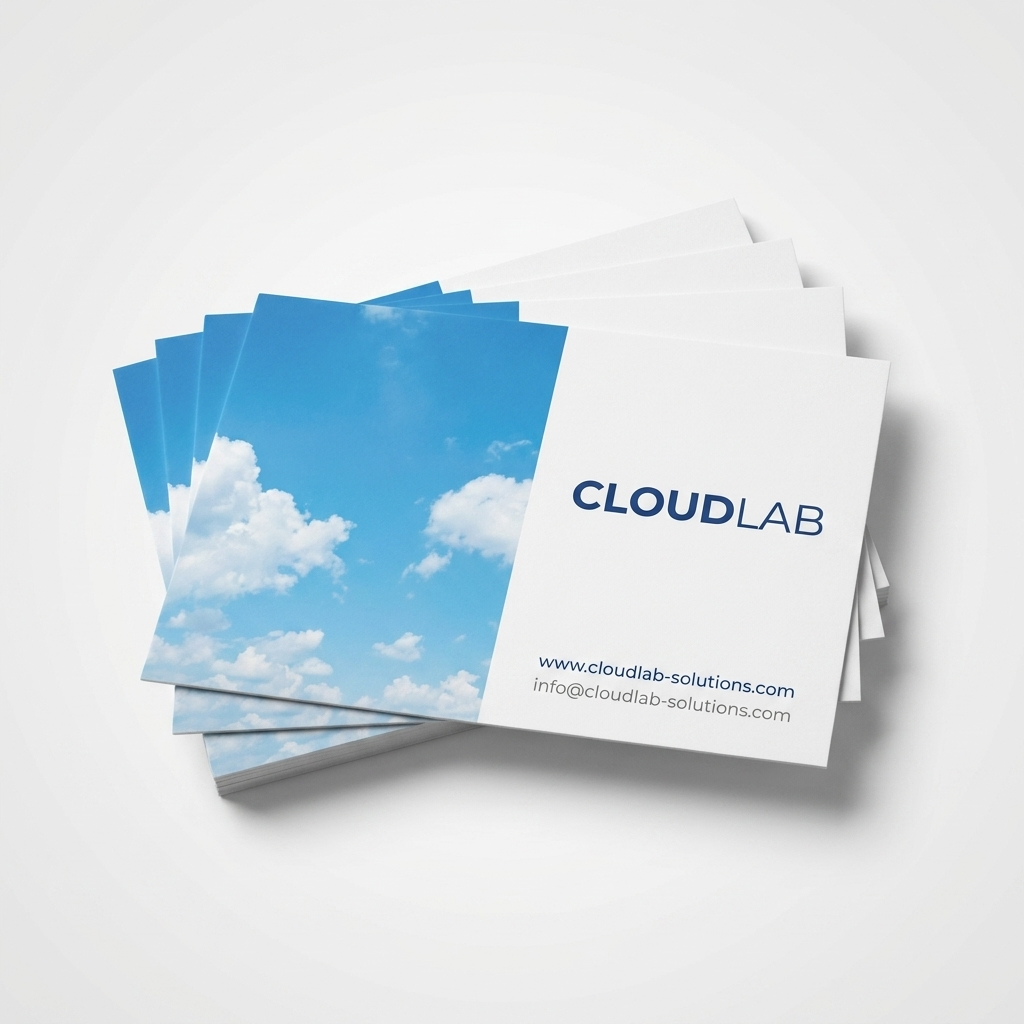
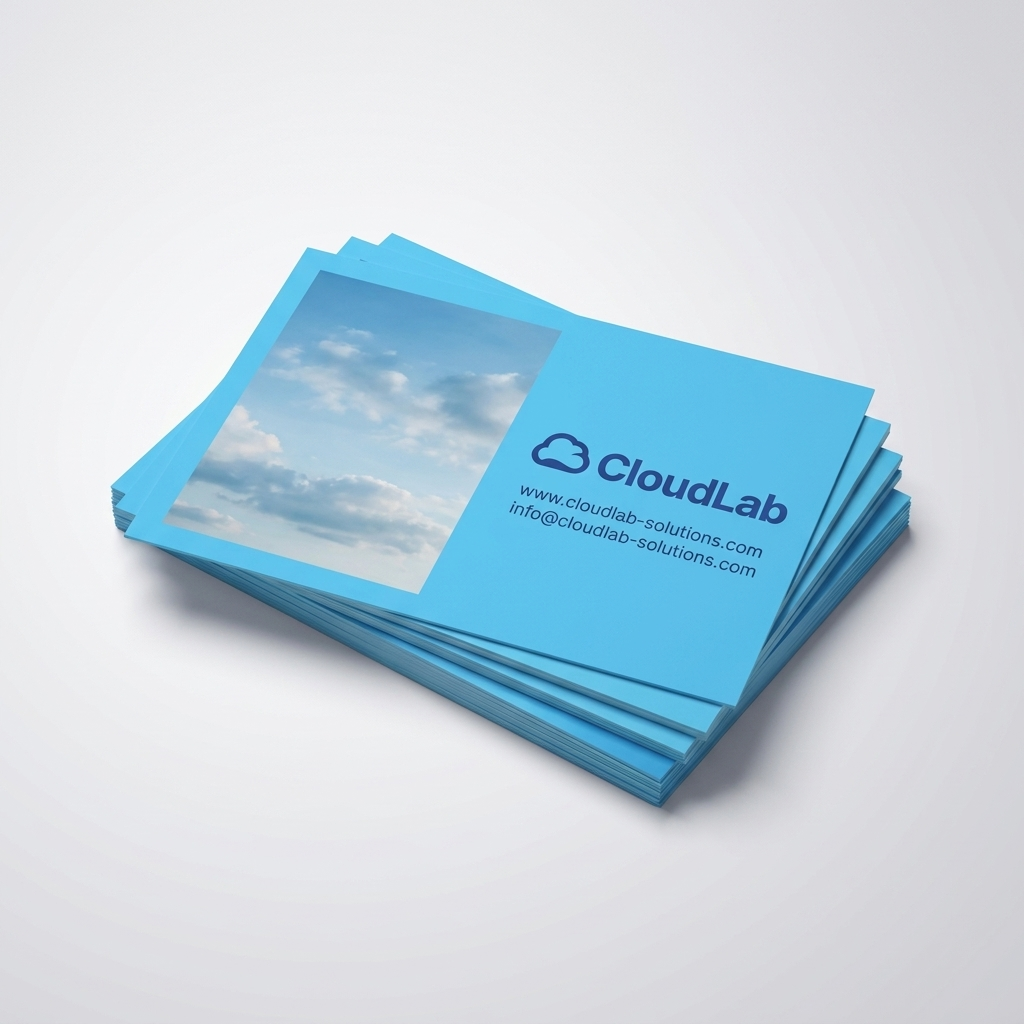
Fix designer 'Confirm' redirect, attach ?design= on add-to-cart, regenerate brand photos
Designer flow:
- After 'Confirm & add to cart' in the proof modal, redirect to the
  storefront product page (with ?design=<id>) instead of '/' on the
  designer's own host. The previous redirect re-opened the designer
  with no state, which looked like the editor restarting blank.
- Designer now accepts ?product= as either a UUID or a slug; it
  resolves the missing side from the public catalogue API so it
  always knows where to send the user back.

Storefront configurator:
- Reads ?design= from the URL and includes design_id in the cart-add
  request, so the production job has the user's artwork attached.
- Shows a green 'Design attached #abcd1234' banner above the option
  pickers with a quick 'Edit design' link back to the designer.

Brand photos:
- Tightened the per-product image prompt: 'USE THE EXACT LOGO from
  the supplied reference image. MAKE NO CHANGES TO IT. No cloud
  icons, no symbols, no extra glyphs, no different fonts or weights,
  no recoloring. Pixel-paste it like a sticker.'
- Hero banner regenerated with the same logo reference so the
  branded business cards / brochure / poster tube on the desk all
  carry the CloudLab mark.
- All 14 product photos regenerated under the new prompt.
- Removed the CSS overlay logo from product cards on home, grid and
  detail pages — the logo now lives in the photo itself.

Designer typography:
- Reconfirmed Inter is loading via Google Fonts <link> tags and
[…]

diff --git a/designer/src/main.ts b/designer/src/main.ts
@@ -10,9 +10,17 @@ import { renderPanel, renderProperties, type PanelKind } from './panels';
 
 const params = new URLSearchParams(window.location.search);
 const designIdFromUrl = params.get('design');
-const productId = params.get('product') ?? '';
+// `?product=` accepts either a UUID (legacy) or a slug like "flyer". We
+// resolve to both forms so save can use the UUID and the redirect can use
+// the slug.
+const productFromUrl = params.get('product') ?? '';
 const apiBase = (import.meta as any).env?.VITE_API_URL ?? 'http://localhost:8000/api/v1';
+const storefrontUrl = (import.meta as any).env?.VITE_STOREFRONT_URL ?? 'http://localhost:4321';
 const client = new DesignerClient(apiBase);
+
+const UUID_RE = /^[0-9a-f]{8}-[0-9a-f]{4}-[0-9a-f]{4}-[0-9a-f]{4}-[0-9a-f]{12}$/i;
+let productId = UUID_RE.test(productFromUrl) ? productFromUrl : '';
+let productSlug = UUID_RE.test(productFromUrl) ? '' : productFromUrl;
 
 const toastEl = document.getElementById('toast') as HTMLElement;
 function toast(msg: string, kind: 'info' | 'success' | 'error' = 'info') {
@@ -152,29 +160,44 @@ function scheduleAutosave() {
   autosaveTimer = window.setTimeout(persistOnce, 1200);
 }
 
-// Product id resolution. Always async — saves wait for it.
-let cachedFallbackProductId: string | null = null;
+// Product resolution. Always async — saves wait for it.
+// Sources, in priority order:
+//   1. ?product=<uuid>  → already have id, fetch slug for the redirect
+//   2. ?product=<slug>  → fetch the product, derive id
+//   3. (nothing)        → take the first published product
 let resolvingProduct: Promise<string> | null = null;
 
 async function ensureProductId(): Promise<string> {
-  if (productId) return productId;
-  if (cachedFallbackProductId) return cachedFallbackProductId;
+  if (productId && productSlug) return productId;
   if (resolvingProduct) return resolvingProduct;
 
   resolvingProduct = (async () => {
-    const res = await fetch(`${apiBase}/products?per_page=1`);
-    const json = await res.json();
-    const list = json?.data?.data ?? [];
-    if (!list[0]?.id) throw new Error('No published products available — seed the catalogue first.');
-    cachedFallbackProductId = list[0].id as string;
+    let p = null;
+    if (productSlug) {
+      const res = await fetch(`${apiBase}/products/${encodeURIComponent(productSlug)}`);
+      if (res.ok) p = await res.json();
+    } else if (productId) {
+      // Have UUID, find slug from the catalogue.
+      const res = await fetch(`${apiBase}/products?per_page=200`);
+      const list = (await res.json())?.data?.data ?? [];
+      p = list.find((x) => x.id === productId) ?? null;
+    } else {
+      const res = await fetch(`${apiBase}/products?per_page=1`);
+      const list = (await res.json())?.data?.data ?? [];
+      p = list[0] ?? null;
+    }
+    if (!p?.id) throw new Error('No published product available.');
+
+    productId = p.id;
+    productSlug = p.slug;
 
     // Update the right-side product card from the catalogue.
-    document.getElementById('product-name')!.textContent = list[0].name;
-    document.getElementById('product-name-top')!.textContent = list[0].name;
+    document.getElementById('product-name')!.textContent = p.name;
+    document.getElementById('product-name-top')!.textContent = p.name;
     document.getElementById('product-meta')!.textContent =
-      list[0].description ? truncate(list[0].description, 70) : '85 × 55 mm · 350 gsm';
+      p.description ? truncate(p.description, 70) : '85 × 55 mm · 350 gsm';
 
-    return cachedFallbackProductId!;
+    return productId;
   })();
 
   return resolvingProduct;
@@ -258,15 +281,23 @@ document.getElementById('proof-confirm')!.addEventListener('click', async () => 
       console.log('Proof uploaded:', meta);
     }
     await client.approve(currentDesignId);
-    toast('Approved! Returning to product…', 'success');
+    toast('Approved! Taking you to the product page to finalise…', 'success');
+
+    // Make sure we have a slug for the redirect (resolve if user opened the
+    // designer with no ?product= or with a UUID).
+    await ensureProductId();
+    const slug = productSlug || 'business-card';
+    const target = `${storefrontUrl}/products/${encodeURIComponent(slug)}/?design=${encodeURIComponent(currentDesignId)}`;
+
     setTimeout(() => {
       if (window.opener) {
-        window.opener.postMessage({ type: 'design-approved', design_id: currentDesignId }, '*');
+        window.opener.postMessage({ type: 'design-approved', design_id: currentDesignId, redirect: target }, '*');
+        try { window.opener.location.href = target; } catch { /* cross-origin */ }
         window.close();
       } else {
-        window.location.href = '/';
+        window.location.href = target;
       }
-    }, 1500);
+    }, 900);
   } catch (e: any) {
     toast(`Approve failed: ${e?.message ?? e}`, 'error');
     btn.disabled = false;

diff --git a/storefront/src/components/ProductConfigurator.tsx b/storefront/src/components/ProductConfigurator.tsx
@@ -42,6 +42,12 @@ export default function ProductConfigurator({ slug }: Props) {
   const setOption = (code: string, value: string) =>
     setConfig((prev) => ({ ...prev, [code]: value }));
 
+  // If the user came back from the designer, the URL carries ?design=<id>.
+  // Attach it to the cart item so the production job has the artwork.
+  const designId = typeof window !== 'undefined'
+    ? new URLSearchParams(window.location.search).get('design')
+    : null;
+
   const addToCart = async () => {
     if (!validation?.valid || !price?.valid) return;
     setAdding(true);
@@ -54,6 +60,7 @@ export default function ProductConfigurator({ slug }: Props) {
       }
       await api.cart.addItem(cartId, {
         product_id: data.product.id,
+        design_id: designId ?? null,
         configuration_json: config,
         price_json: price,
         quantity: Number(config.quantity ?? 1),
@@ -69,6 +76,18 @@ export default function ProductConfigurator({ slug }: Props) {
 
   return (
     <div class="space-y-5">
+      {designId && (
+        <div class="flex items-center justify-between gap-3 rounded-lg border border-emerald-200 bg-emerald-50 p-3 text-sm text-emerald-900">
+          <div class="flex items-center gap-2">
+            <span class="grid h-7 w-7 place-items-center rounded-full bg-emerald-500 text-white">✓</span>
+            <div>
+              <div class="font-semibold">Design attached</div>
+              <div class="text-xs text-emerald-700">Design <span class="font-mono">#{designId.slice(0, 8)}</span> from the editor will be printed on this order.</div>
+            </div>
+          </div>
+          <a href={`http://localhost:5173/?design=${designId}&product=${data.product.slug}`} class="text-xs font-semibold text-emerald-700 underline hover:text-emerald-900">Edit design</a>
+        </div>
+      )}
       {data.options.map((opt) => (
         <div key={opt.code}>
           <label class="mb-2 flex items-center justify-between text-sm font-semibold text-slate-700">
